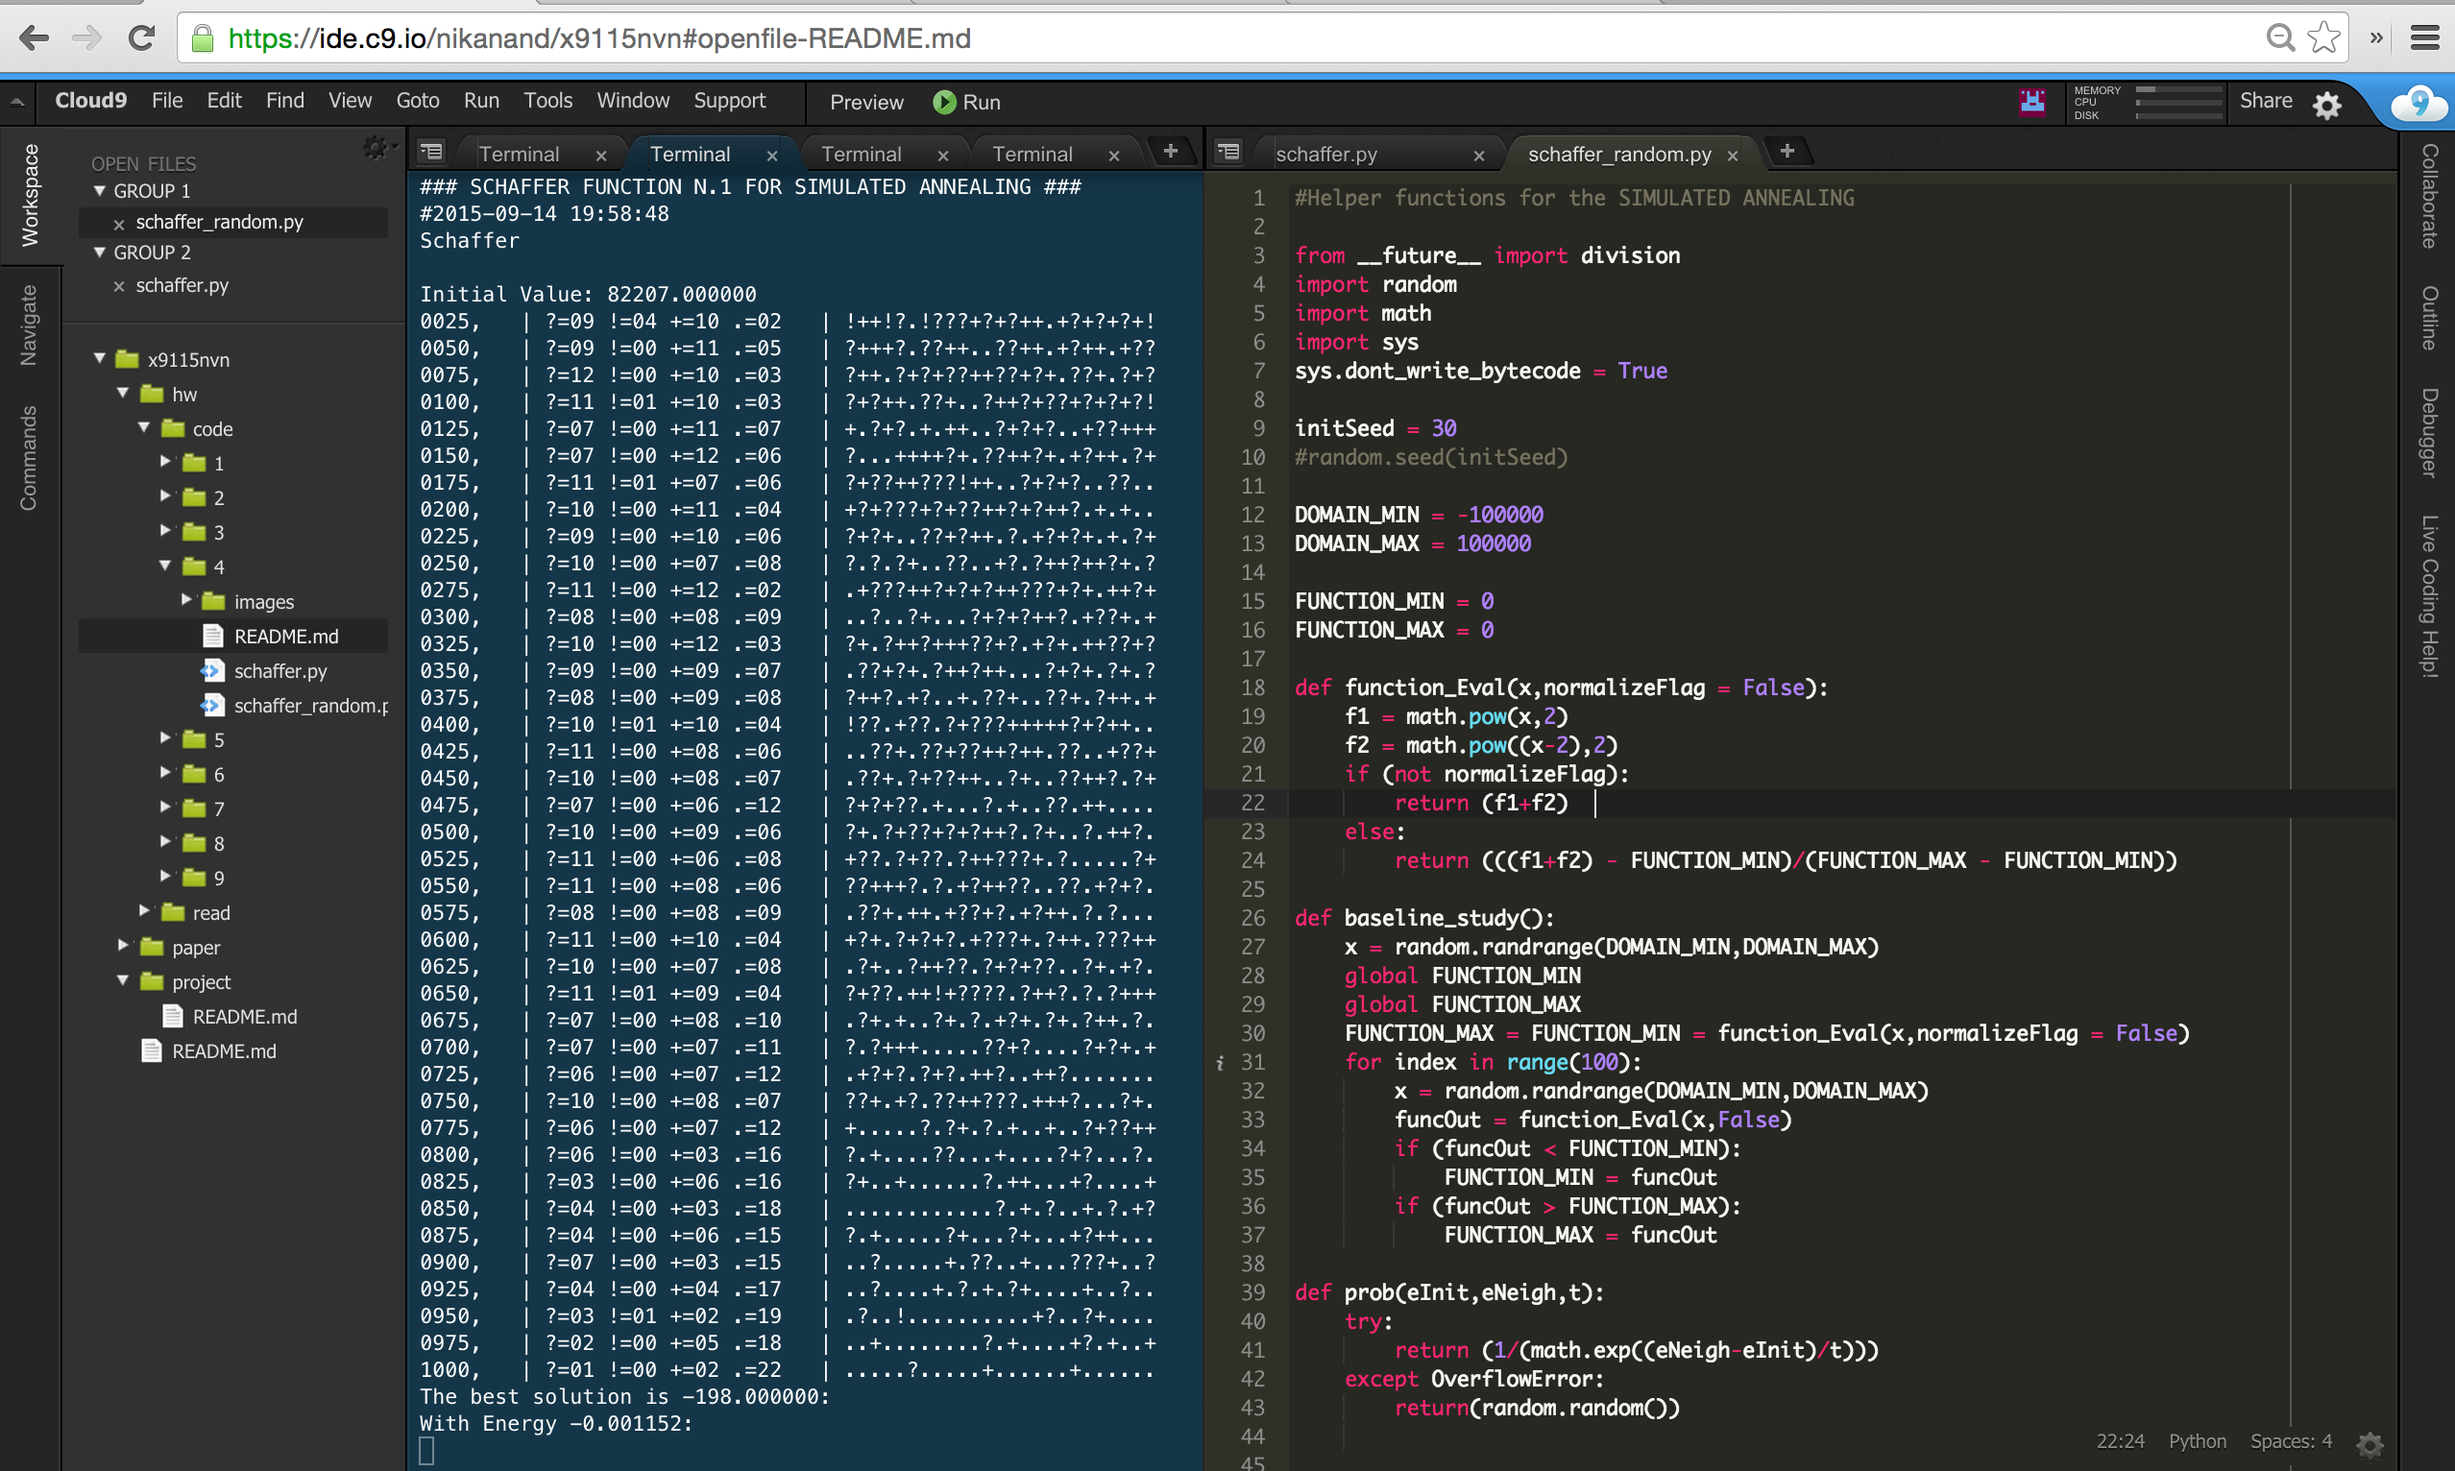
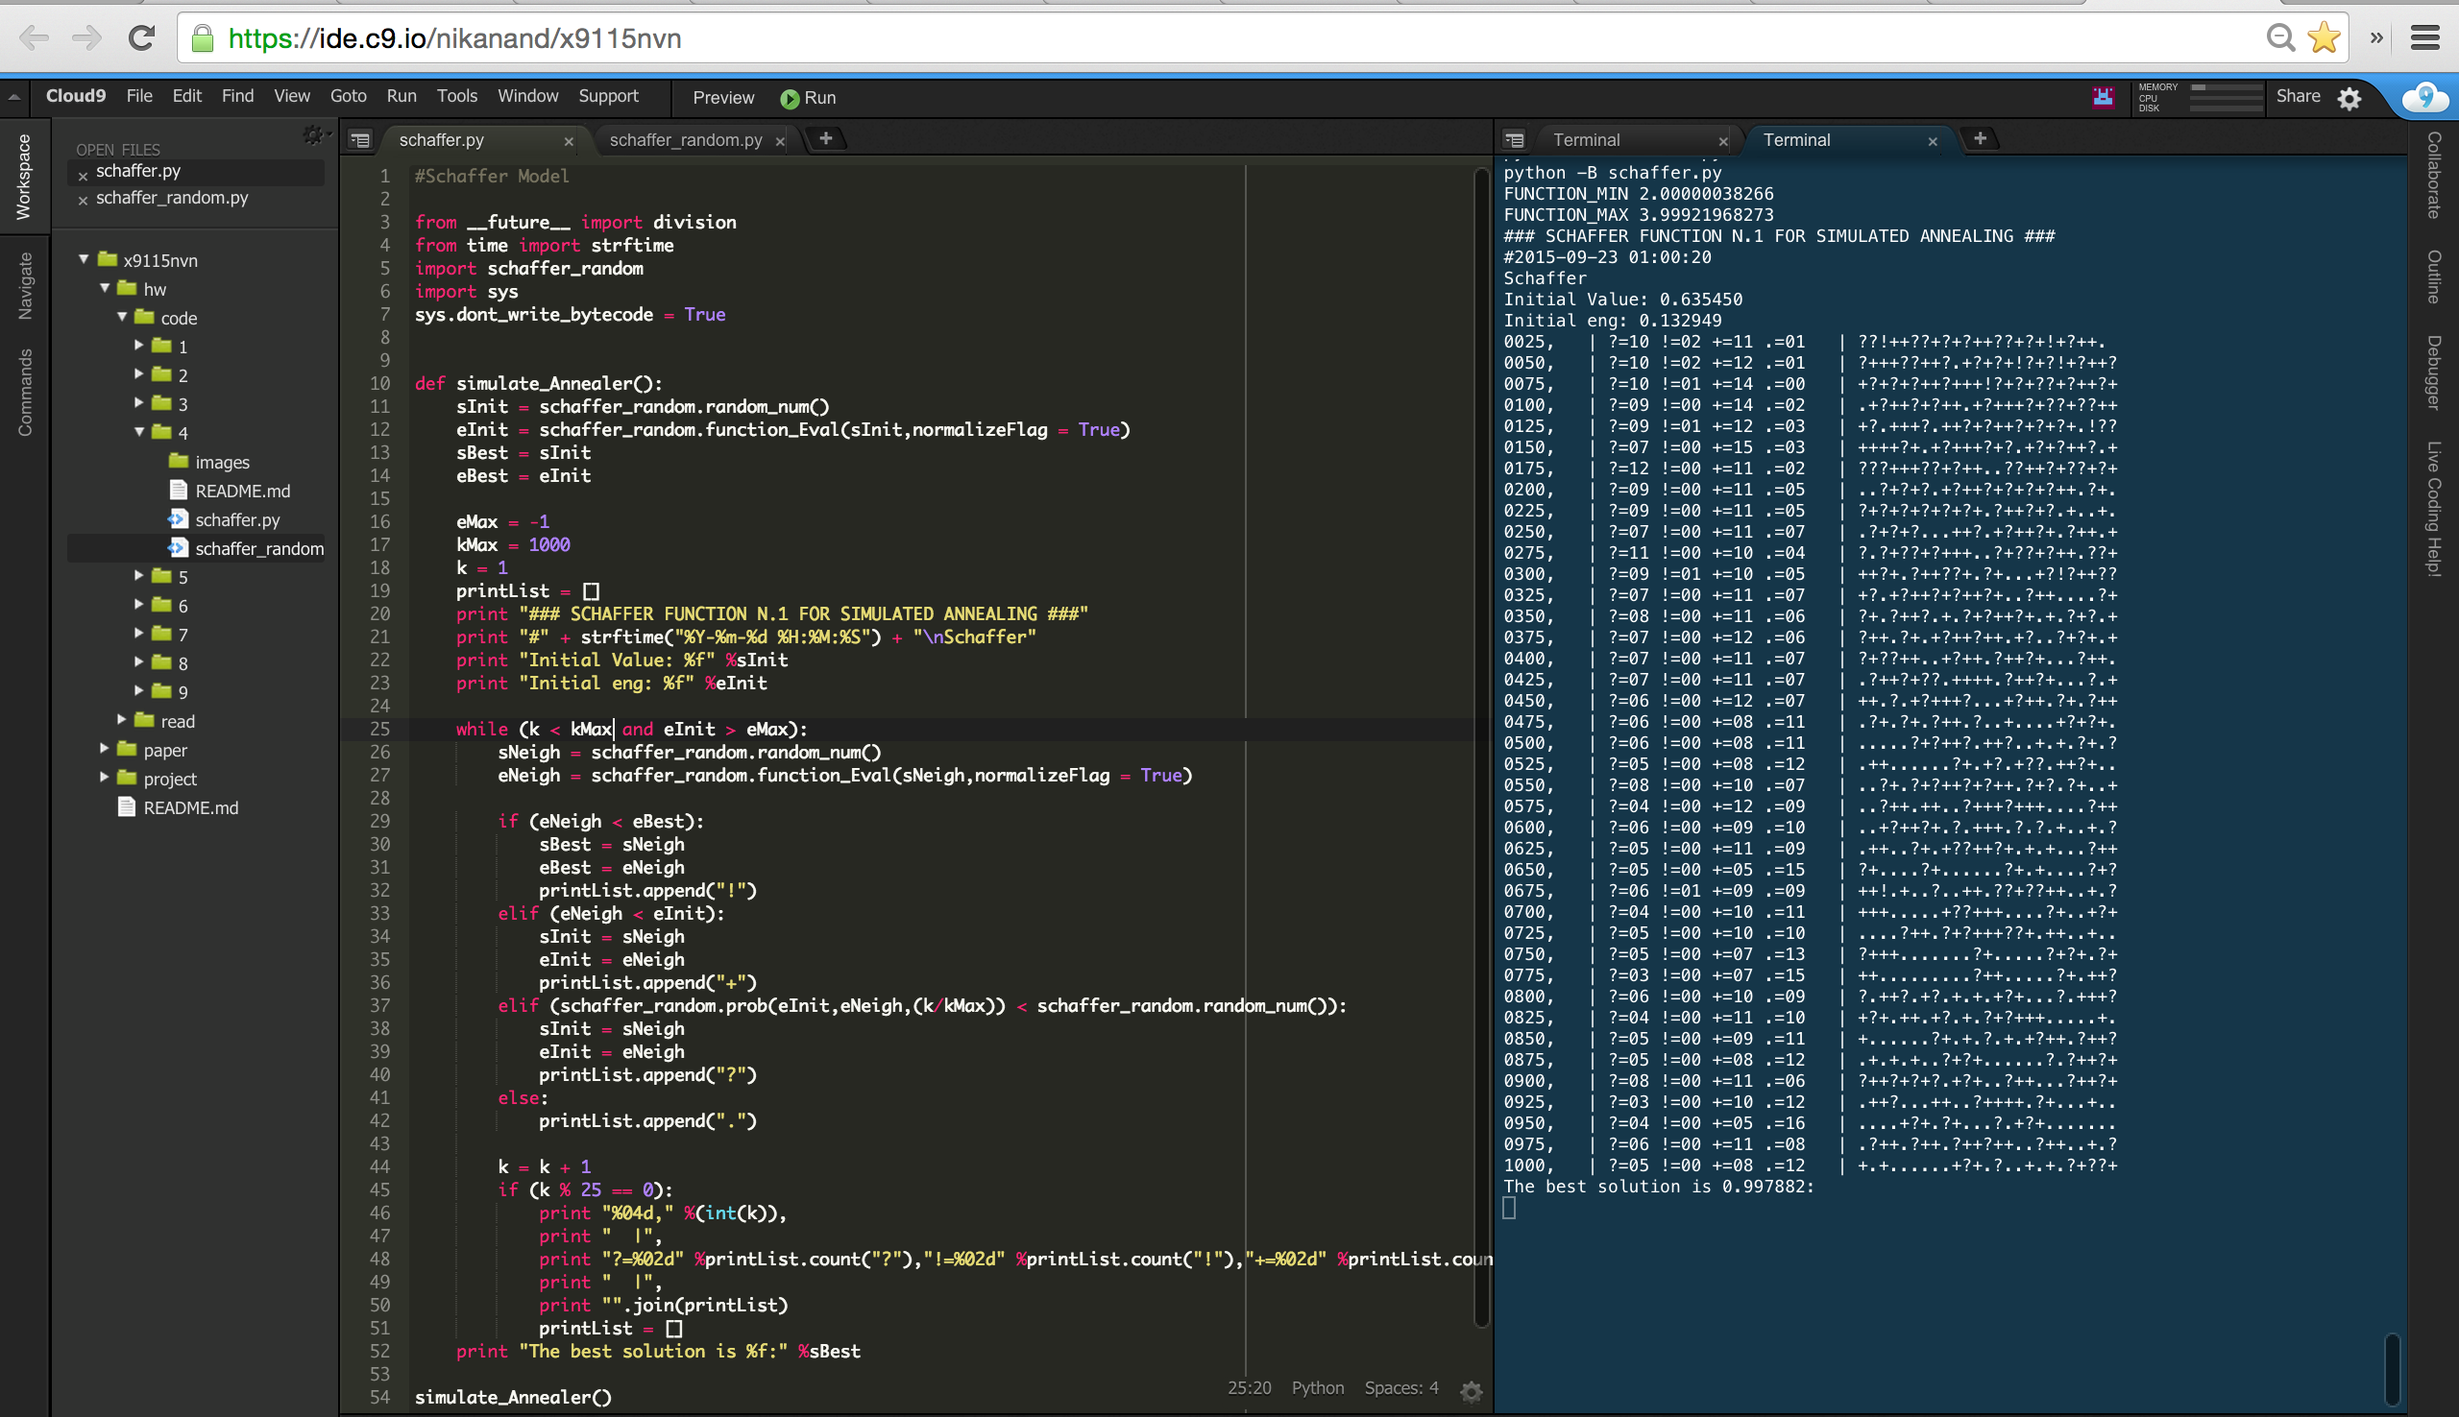
fix bug regarding probality function

diff --git a/hw/code/4/schaffer.py b/hw/code/4/schaffer.py
@@ -8,35 +8,39 @@ sys.dont_write_bytecode = True
 
 
 def simulate_Annealer():
-    sInit = schaffer_random.random_number()
+    sInit = schaffer_random.random_num()
     eInit = schaffer_random.function_Eval(sInit,normalizeFlag = True) 
     sBest = sInit
     eBest = eInit
+    
     eMax = -1 
     kMax = 1000
-    k = 0
+    k = 1
     printList = []
     print "### SCHAFFER FUNCTION N.1 FOR SIMULATED ANNEALING ###"
-    print "#" + strftime("%Y-%m-%d %H:%M:%S") + "\nSchaffer\n"
+    print "#" + strftime("%Y-%m-%d %H:%M:%S") + "\nSchaffer"
     print "Initial Value: %f" %sInit
+    print "Initial eng: %f" %eInit
+
     while (k < kMax and eInit > eMax):
-        sNeigh = schaffer_random.random_number()
+        sNeigh = schaffer_random.random_num()
         eNeigh = schaffer_random.function_Eval(sNeigh,normalizeFlag = True)
 
         if (eNeigh < eBest):
             sBest = sNeigh
             eBest = eNeigh
-            printList.append("!")
+            printList.append("!")  
         elif (eNeigh < eInit):
             sInit = sNeigh
             eInit = eNeigh
             printList.append("+")
-        elif (schaffer_random.prob(eInit,eNeigh,(1-k/kMax)) > schaffer_random.random_num()):
+        elif (schaffer_random.prob(eInit,eNeigh,(k/kMax)) < schaffer_random.random_num()):
             sInit = sNeigh
             eInit = eNeigh
             printList.append("?")
-        else:    
+        else:
             printList.append(".")
+        
         k = k + 1
         if (k % 25 == 0):
             print "%04d," %(int(k)),
@@ -45,9 +49,8 @@ def simulate_Annealer():
             print "  |",
             print "".join(printList)
             printList = []
-    print "The best solution is %f:" %sInit
-    print "With Energy %f:" %eInit 
-    
+    print "The best solution is %f:" %sBest
+
 simulate_Annealer()    
 
 

diff --git a/hw/code/4/schaffer_random.py b/hw/code/4/schaffer_random.py
@@ -6,13 +6,13 @@ import math
 import sys
 sys.dont_write_bytecode = True
 
-initSeed = 30
+#initSeed = 30
 #random.seed(initSeed)
 
-DOMAIN_MIN = -100000	
-DOMAIN_MAX = 100000
+DOMAIN_MIN = -100
+DOMAIN_MAX = 100
 
-FUNCTION_MIN = 0
+FUNCTION_MIN = 1000
 FUNCTION_MAX = 0
 	
 def function_Eval(x,normalizeFlag = False):
@@ -27,9 +27,9 @@ def baseline_study():
     x = random.randrange(DOMAIN_MIN,DOMAIN_MAX)
     global FUNCTION_MIN
     global FUNCTION_MAX
-    FUNCTION_MAX = FUNCTION_MIN = function_Eval(x,normalizeFlag = False)
-    for index in range(100):
-        x = random.randrange(DOMAIN_MIN,DOMAIN_MAX)
+    #FUNCTION_MAX = FUNCTION_MIN = function_Eval(x,normalizeFlag = False)
+    for index in range(1000):
+        x = random.random()
         funcOut = function_Eval(x,False)
         if (funcOut < FUNCTION_MIN):
             FUNCTION_MIN = funcOut
@@ -37,15 +37,9 @@ def baseline_study():
             FUNCTION_MAX = funcOut  
 
 def prob(eInit,eNeigh,t):
-    try:
-        return (1/(math.exp((eNeigh-eInit)/t)))
-    except OverflowError:
-        return(random.random())
+    return math.e**((eInit - eNeigh )/t)
         
-
-def random_number():
-    return(random.randrange(DOMAIN_MIN,DOMAIN_MAX))
-    
+        
 def random_num():
     return(random.random())
 
@@ -54,5 +48,7 @@ def random_num():
 
 if __name__ != "__main__":
     baseline_study()
-    #print "Initial Seed %d" %initSeed
+    print "FUNCTION_MIN",FUNCTION_MIN 
+    print "FUNCTION_MAX",FUNCTION_MAX
+#    print "Initial Seed %d" %initSeed
 
